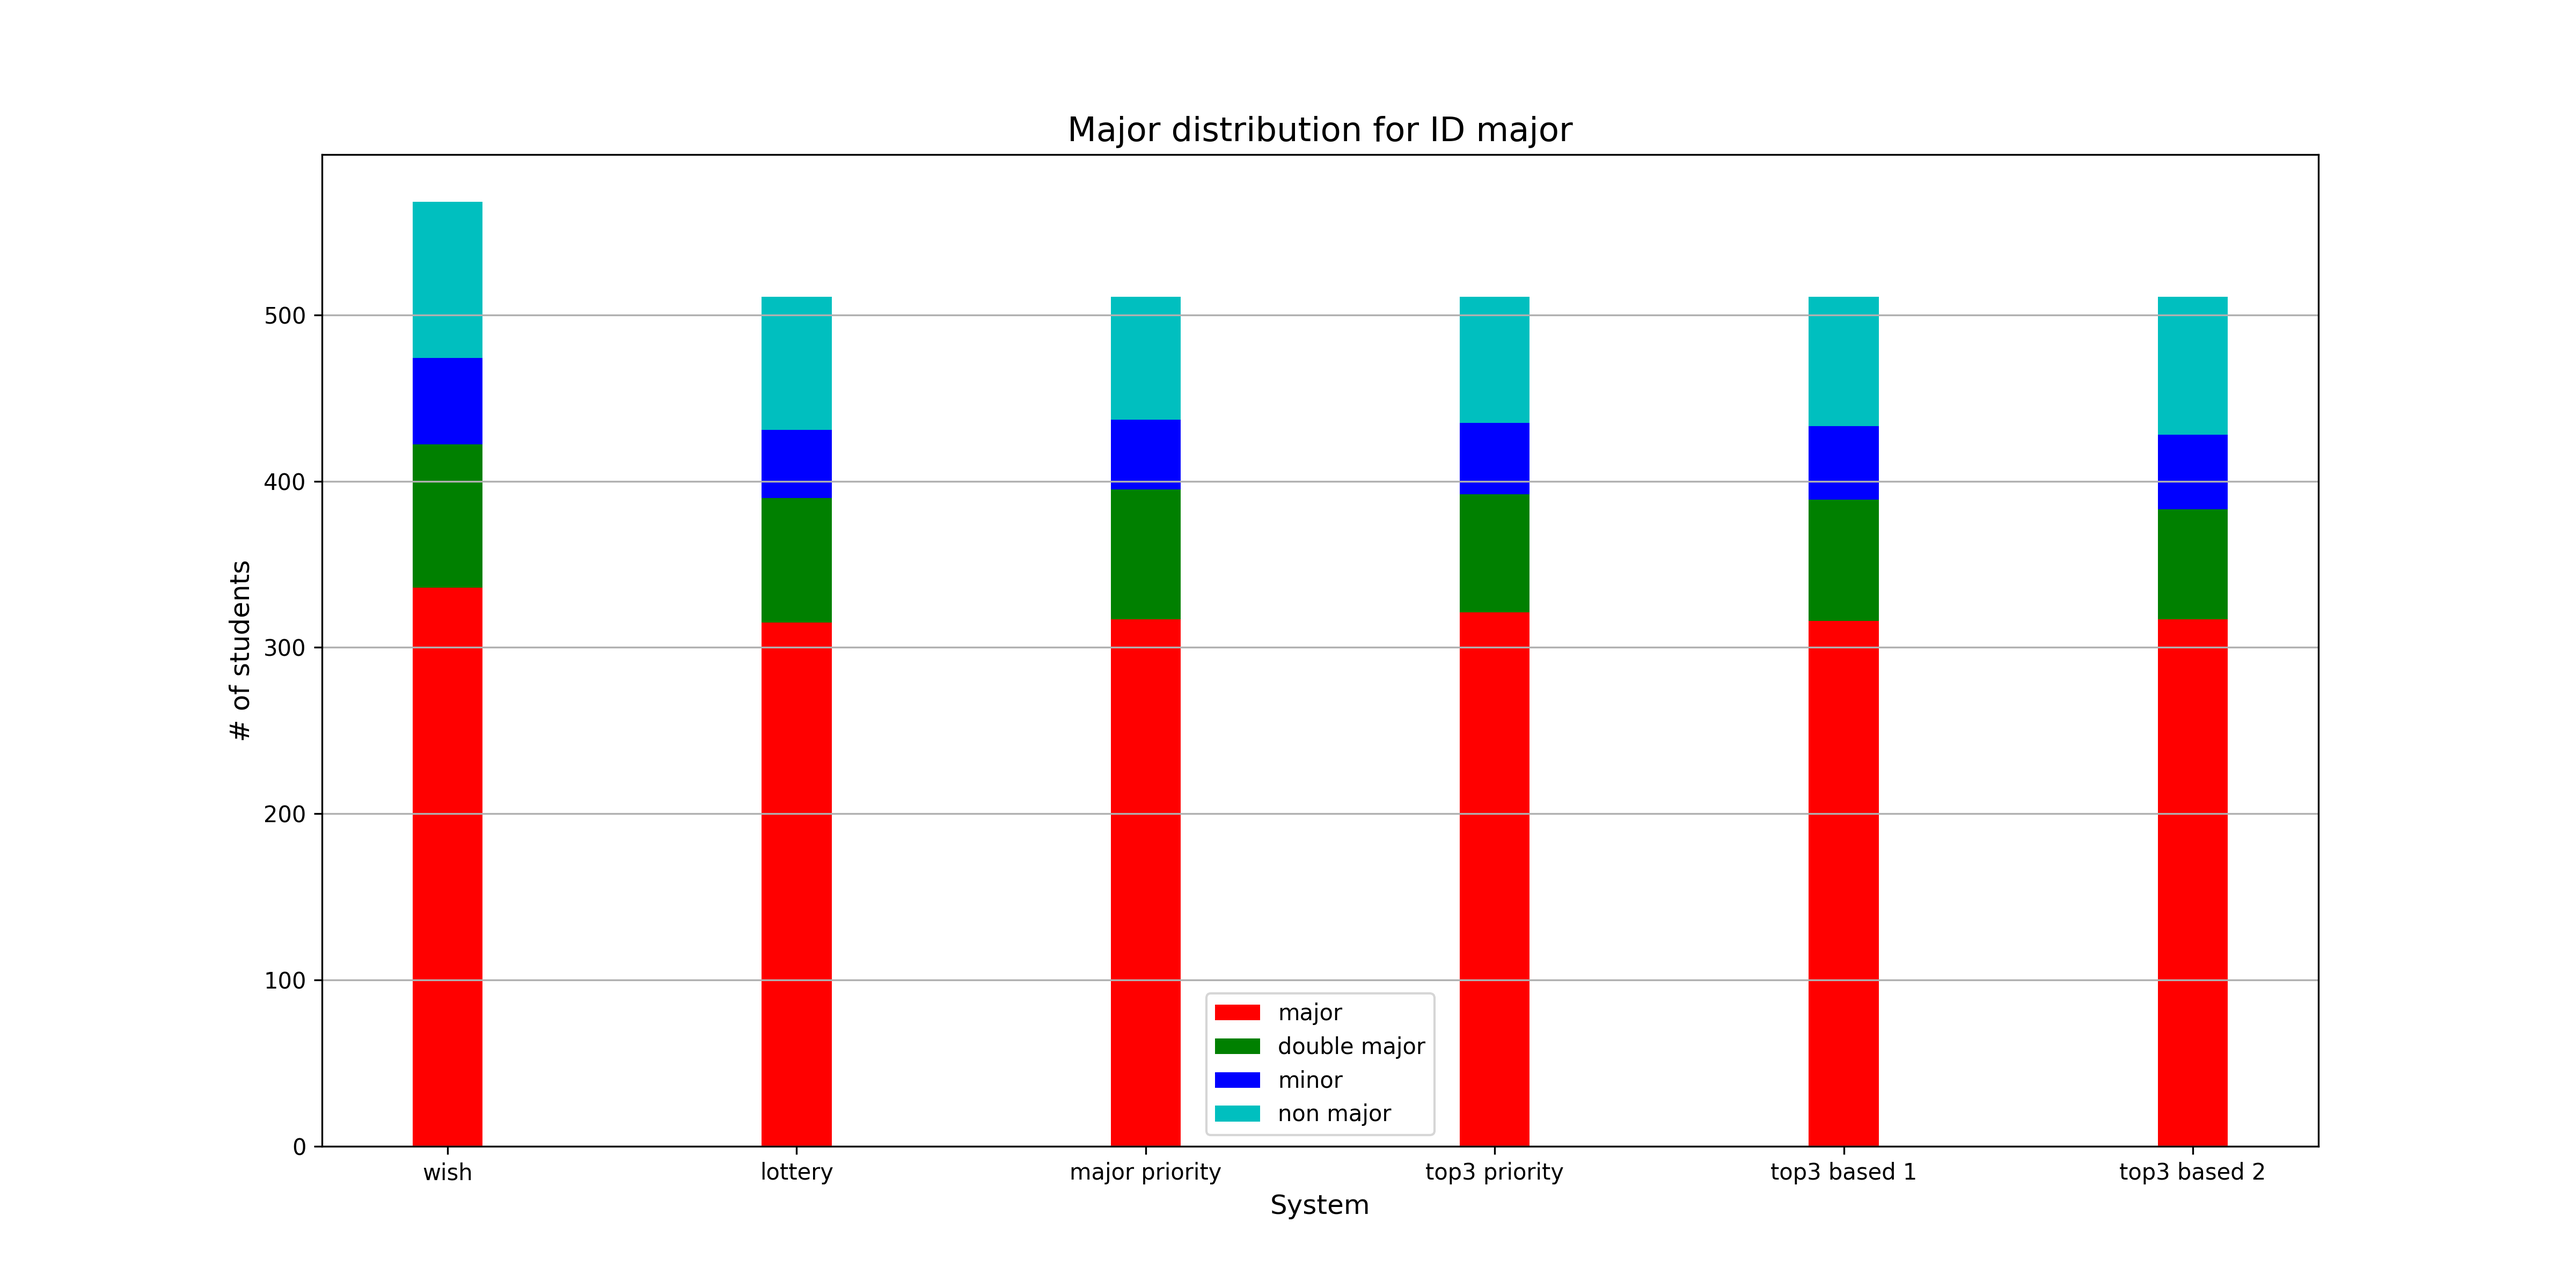
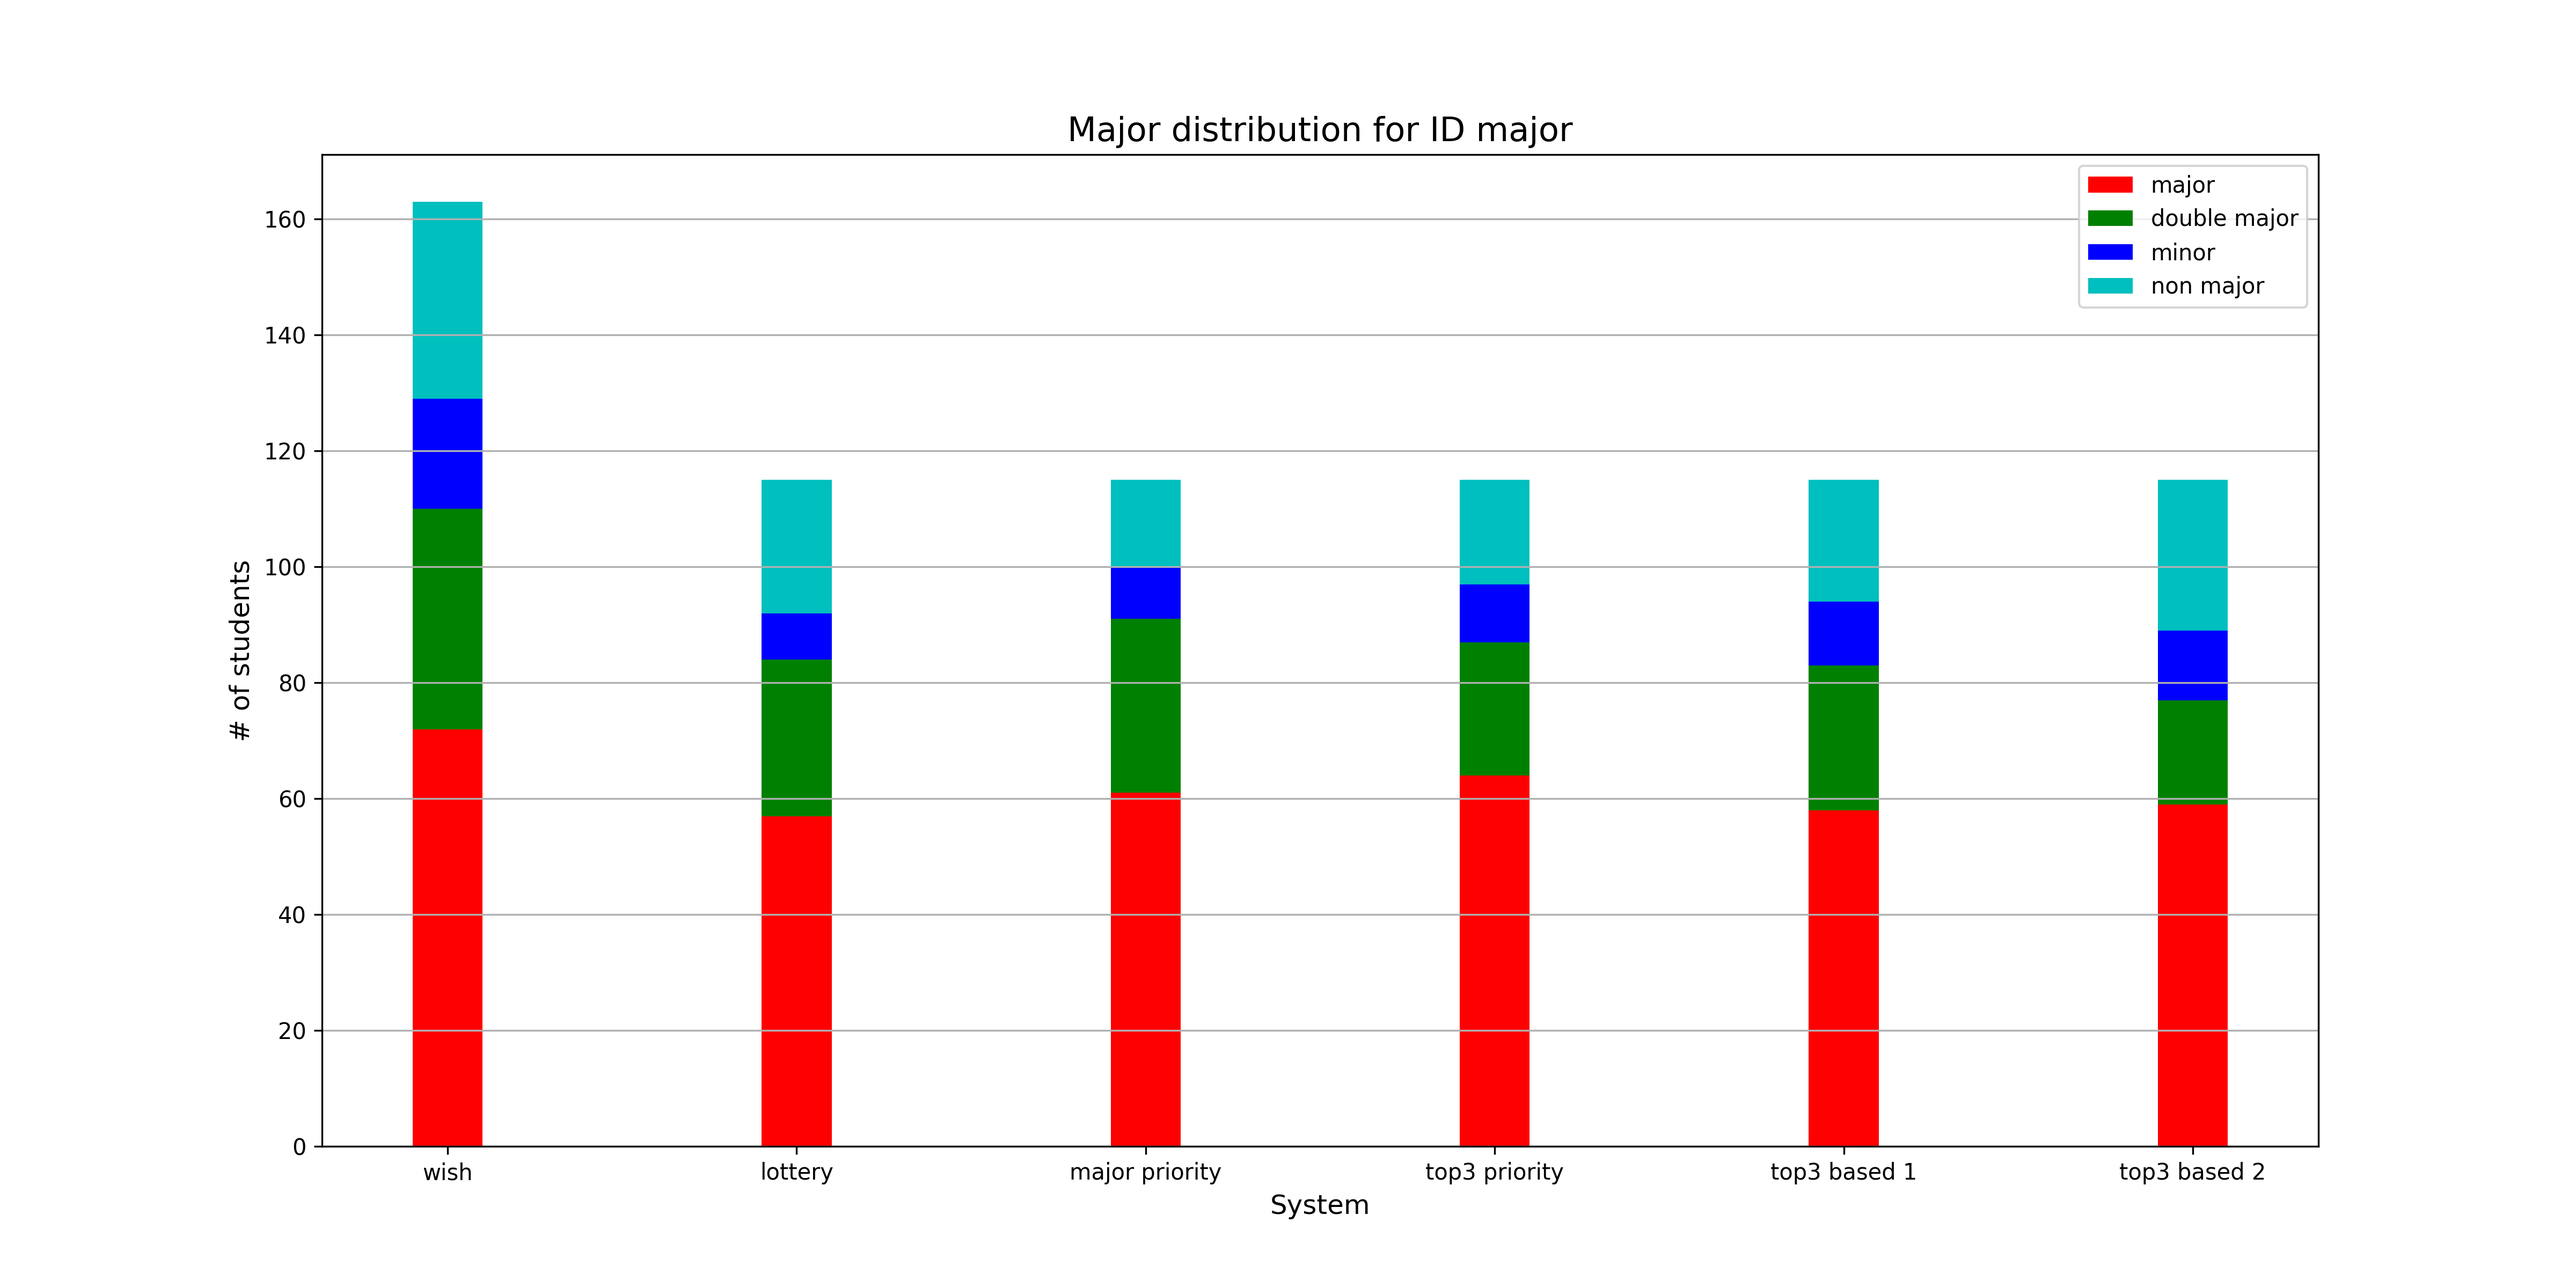
select only major required and elective courses

diff --git a/visualization/metrics/major_priority.py b/visualization/metrics/major_priority.py
@@ -6,12 +6,14 @@ from registration.major import Major
 from visualization.color import COLOR
 from registration.course import CourseType
 
-majors = [Major.CS, Major.EE, Major.ID, Major.MAS]
+majors = [Major.CS, Major.EE, Major.ID]
 remove_system = ['grade priority']
 
 def timetable_per_major(s, timetable, timetables):
     for course in timetable:   
-        if not course.is_lottery and course.course_type == CourseType.BASIC_REQUIRED:
+        if not course.is_lottery:
+            continue
+        if not (course.course_type == CourseType.MAJOR_REQUIRED or course.course_type == CourseType.MAJOR_ELECTIVE):
             continue
         major = course.major
         if major not in majors:
